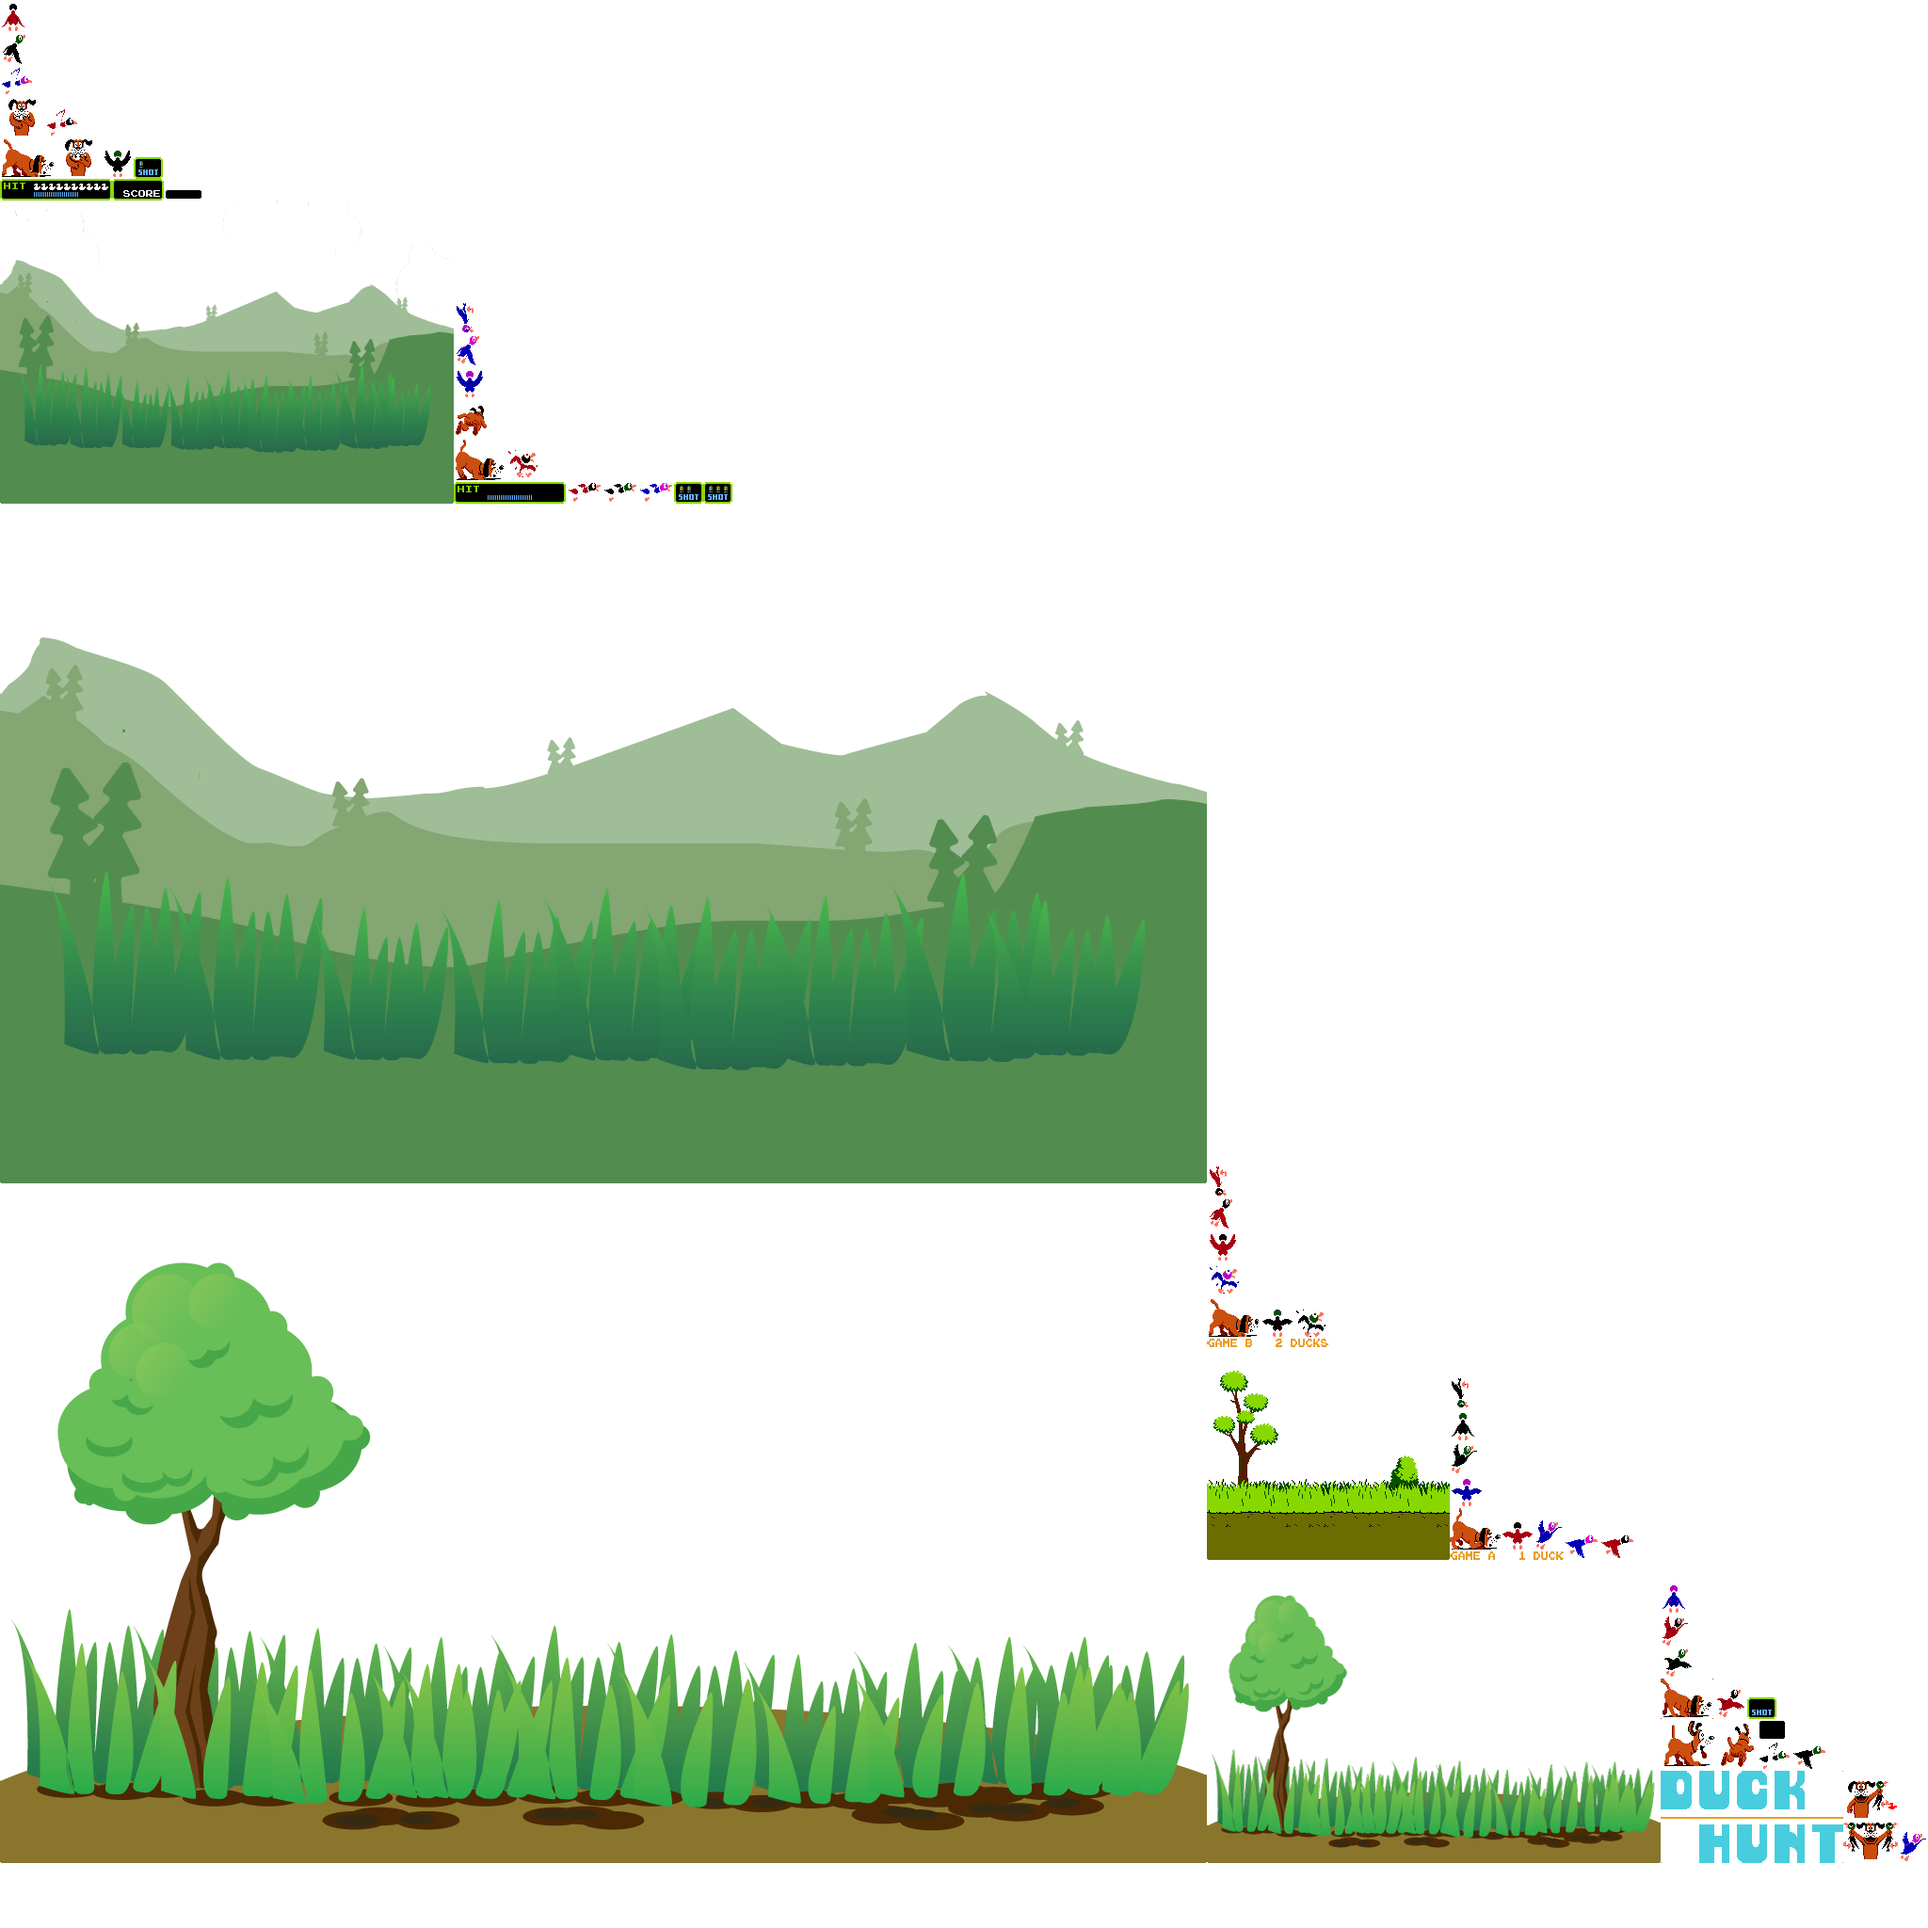
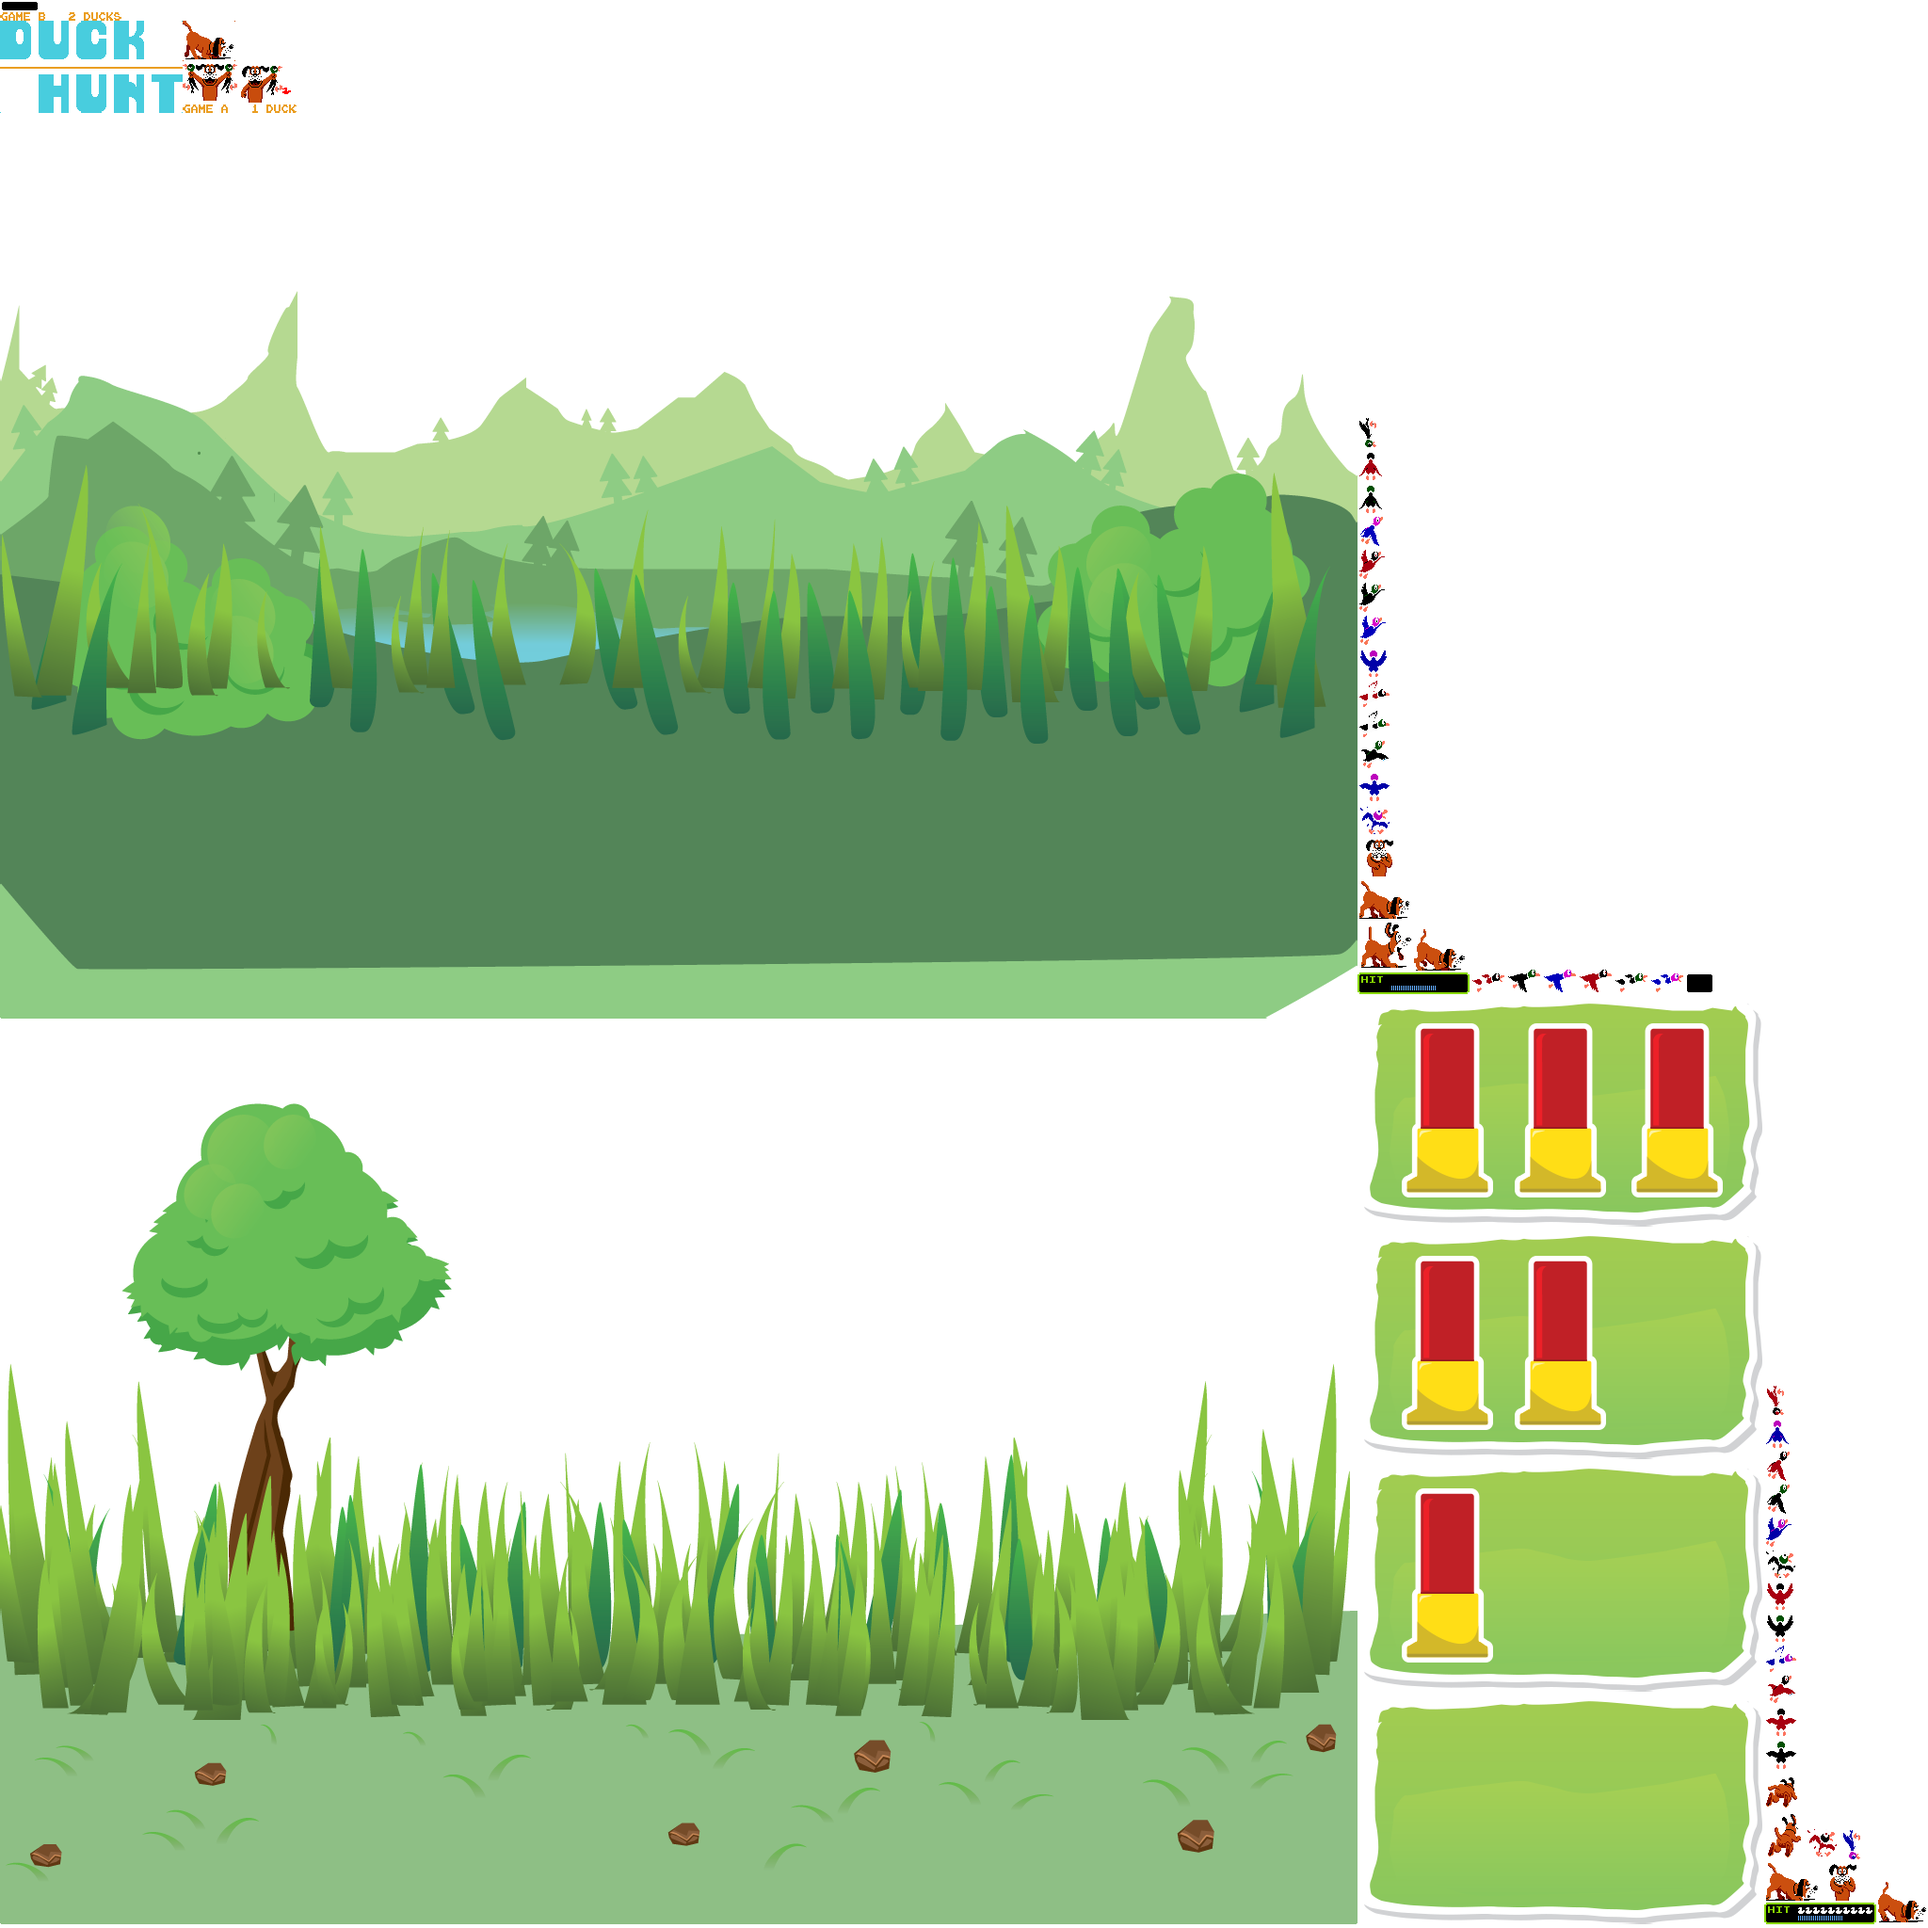
some UI implemented

diff --git a/core/src/com/rareFrog/game/screens/GameScreen.java b/core/src/com/rareFrog/game/screens/GameScreen.java
@@ -244,29 +244,24 @@ public class GameScreen implements Screen {
                 texture,
                 40,
                 20,
-                Assets.ui3Shots.getRegionWidth()
-                        + Assets.ui3Shots.getRegionWidth() / 2,
-                Assets.ui3Shots.getRegionHeight()
-                        + Assets.ui3Shots.getRegionHeight() / 2);
+                Assets.UISHOTSWIDTH + Assets.UISHOTSWIDTH / 2,
+                Assets.UISHOTSHEIGHT + Assets.UISHOTSHEIGHT / 2);
         batcher.draw(
                 Assets.uiDucksRound,
                 480 / 2 - Assets.uiDucksRound.getRegionWidth() / 2 - 30,
                 20,
-                Assets.uiDucksRound.getRegionWidth() * 2
-                        - Assets.uiDucksRound.getRegionWidth() / 2,
-                Assets.uiDucksRound.getRegionHeight()
-                        + Assets.uiDucksRound.getRegionHeight() / 2);
+                Assets.uiDucksRound.getRegionWidth() * 2 - Assets.uiDucksRound.getRegionWidth() / 2,
+                Assets.uiDucksRound.getRegionHeight() + Assets.uiDucksRound.getRegionHeight() / 2);
 
         x = 0;
         for (int i = 0; i < world.ducks.size(); i++) {
             TextureRegion uiDuck = world.ducks.get(i).uiTexture;
             if (uiDuck != null) {
-                batcher.draw(uiDuck,
+                batcher.draw(
+                        uiDuck,
                         480 / 2 - Assets.uiWhiteDuck.getRegionWidth() - 29 + x,
-                        21, Assets.uiWhiteDuck.getRegionWidth() * 2
-                                - Assets.uiWhiteDuck.getRegionWidth() / 2,
-                        Assets.uiWhiteDuck.getRegionHeight()
-                                + Assets.uiWhiteDuck.getRegionHeight() / 2);
+                        21, Assets.uiWhiteDuck.getRegionWidth() * 2 - Assets.uiWhiteDuck.getRegionWidth() / 2,
+                        Assets.uiWhiteDuck.getRegionHeight() + Assets.uiWhiteDuck.getRegionHeight() / 2);
             }
 
             x += 12;
@@ -276,10 +271,8 @@ public class GameScreen implements Screen {
                 Assets.uiScore,
                 480 - 100,
                 20,
-                Assets.uiScore.getRegionWidth()
-                        + Assets.uiScore.getRegionWidth() / 2,
-                Assets.uiScore.getRegionHeight()
-                        + Assets.uiScore.getRegionHeight() / 2);
+                Assets.UISCOREWIDTH + Assets.UISCOREWIDTH / 2,
+                Assets.UISCOREHEIGHT + Assets.UISCOREHEIGHT / 2);
 
         Assets.font.setColor(Color.WHITE);
         Assets.font.setScale(0.59f, 0.59f);
@@ -296,10 +289,8 @@ public class GameScreen implements Screen {
                 Assets.presentRound,
                 480 / 2 - Assets.presentRound.getRegionWidth(),
                 320 / 2 + 30,
-                Assets.presentRound.getRegionWidth()
-                        + Assets.presentRound.getRegionWidth(),
-                Assets.presentRound.getRegionHeight()
-                        + Assets.presentRound.getRegionHeight());
+                Assets.presentRound.getRegionWidth() + Assets.presentRound.getRegionWidth(),
+                Assets.presentRound.getRegionHeight() + Assets.presentRound.getRegionHeight());
 
         Assets.font.setColor(Color.WHITE);
         Assets.font.setScale(0.5f, 0.5f);
@@ -311,10 +302,8 @@ public class GameScreen implements Screen {
         if (world.ducks.get(world.duckCount).state == Duck.DUCK_STATE_FLY_AWAY) {
             batcher.draw(Assets.presentFlyAway,
                     480 / 2 - Assets.presentFlyAway.getRegionWidth(),
-                    320 / 2 + 30, Assets.presentFlyAway.getRegionWidth()
-                            + Assets.presentFlyAway.getRegionWidth(),
-                    Assets.presentFlyAway.getRegionHeight()
-                            + Assets.presentFlyAway.getRegionHeight());
+                    320 / 2 + 30, Assets.presentFlyAway.getRegionWidth() + Assets.presentFlyAway.getRegionWidth(),
+                    Assets.presentFlyAway.getRegionHeight() + Assets.presentFlyAway.getRegionHeight());
 
             Assets.font.setColor(Color.WHITE);
             Assets.font.setScale(0.45f, 0.5f);
@@ -326,7 +315,9 @@ public class GameScreen implements Screen {
                 presentRoundEnd();
 
             if (stateTime > 5) {
-                batcher.draw(Assets.presentFlyAway, Game.VIRTUAL_WIDTH / 2 - Assets.presentFlyAway.getRegionWidth(),
+                batcher.draw(
+                        Assets.presentFlyAway,
+                        Game.VIRTUAL_WIDTH / 2 - Assets.presentFlyAway.getRegionWidth(),
                         Game.VIRTUAL_HEIGHT / 2 + 30, Assets.presentFlyAway.getRegionWidth() + Assets.presentFlyAway.getRegionWidth(),
                         Assets.presentFlyAway.getRegionHeight() + Assets.presentFlyAway.getRegionHeight());
 
@@ -370,30 +361,6 @@ public class GameScreen implements Screen {
     @Override
     public void resize(int width, int height) {
         stage.getViewport().update(width, height, true);
-
-//        Vector2 crop = new Vector2(0f, 0f);
-//
-//        float aspectRatio = (float) width / (float) height;
-//        float scale = 1;
-//
-//        if (aspectRatio > Game.VIRTUAL_ASPECT) {
-//            scale = (float) height / Game.VIRTUAL_HEIGHT;
-//            crop.x = (width - Game.VIRTUAL_WIDTH * scale) / 2f;
-//        } else if (aspectRatio < Game.VIRTUAL_ASPECT) {
-//            scale = (float) width / Game.VIRTUAL_WIDTH;
-//            crop.y = (height - Game.VIRTUAL_HEIGHT * scale) / 2f;
-//        } else {
-//            scale = (float) width / Game.VIRTUAL_WIDTH;
-//        }
-//
-//        float w = Game.VIRTUAL_WIDTH * scale;
-//        float h = Game.VIRTUAL_HEIGHT * scale;
-//
-////        viewport.set(crop.x, crop.y, w, h);
-//        Gdx.gl.glViewport((int) crop.x, (int) crop.y, (int) w, (int) h);
-//
-//        renderer.gameCam.viewportWidth = w;
-//        renderer.gameCam.viewportHeight = h;
     }
 
     @Override

diff --git a/core/src/com/rareFrog/game/classes/Assets.java b/core/src/com/rareFrog/game/classes/Assets.java
@@ -13,6 +13,11 @@ import com.badlogic.gdx.graphics.g2d.freetype.FreeTypeFontGenerator;
 import com.badlogic.gdx.scenes.scene2d.ui.Skin;
 
 public class Assets {
+    public static int UISHOTSWIDTH = 29;
+    public static int UISHOTSHEIGHT = 21;
+    public static int UISCOREWIDTH = 53;
+    public static int UISCOREHEIGHT = 21;
+
     public static Skin skin;
 
     public static TextureAtlas atlas;
